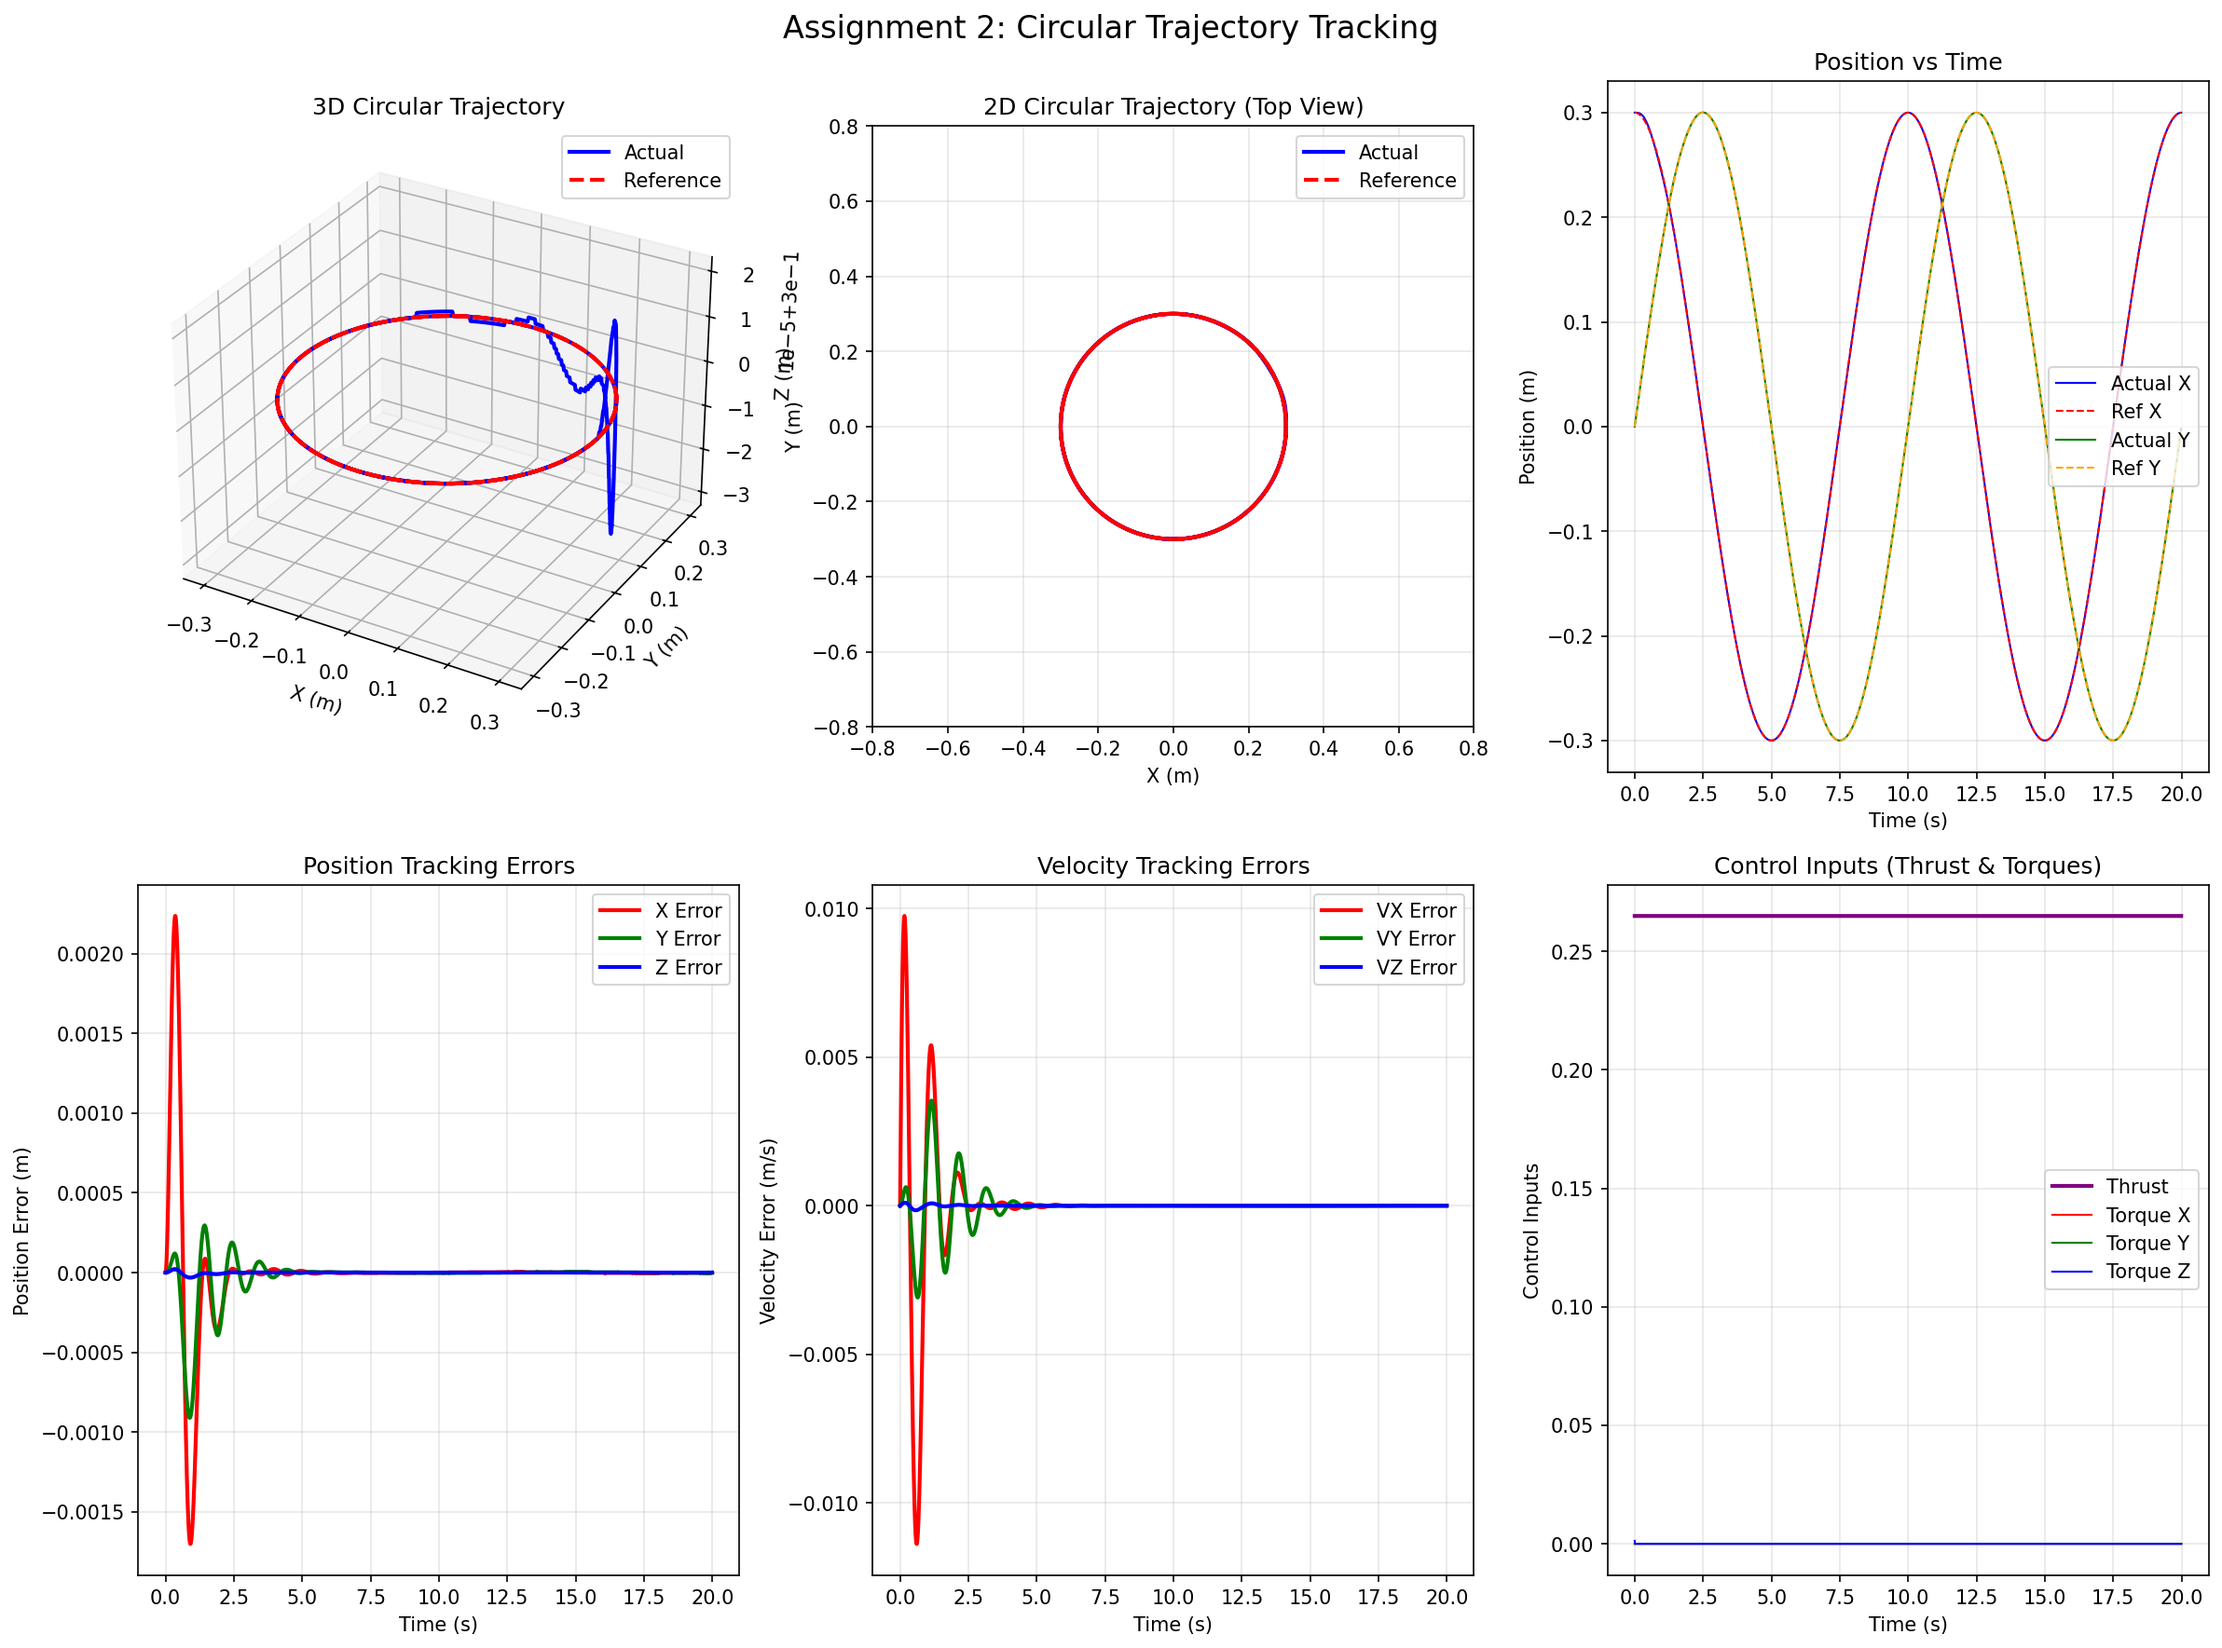
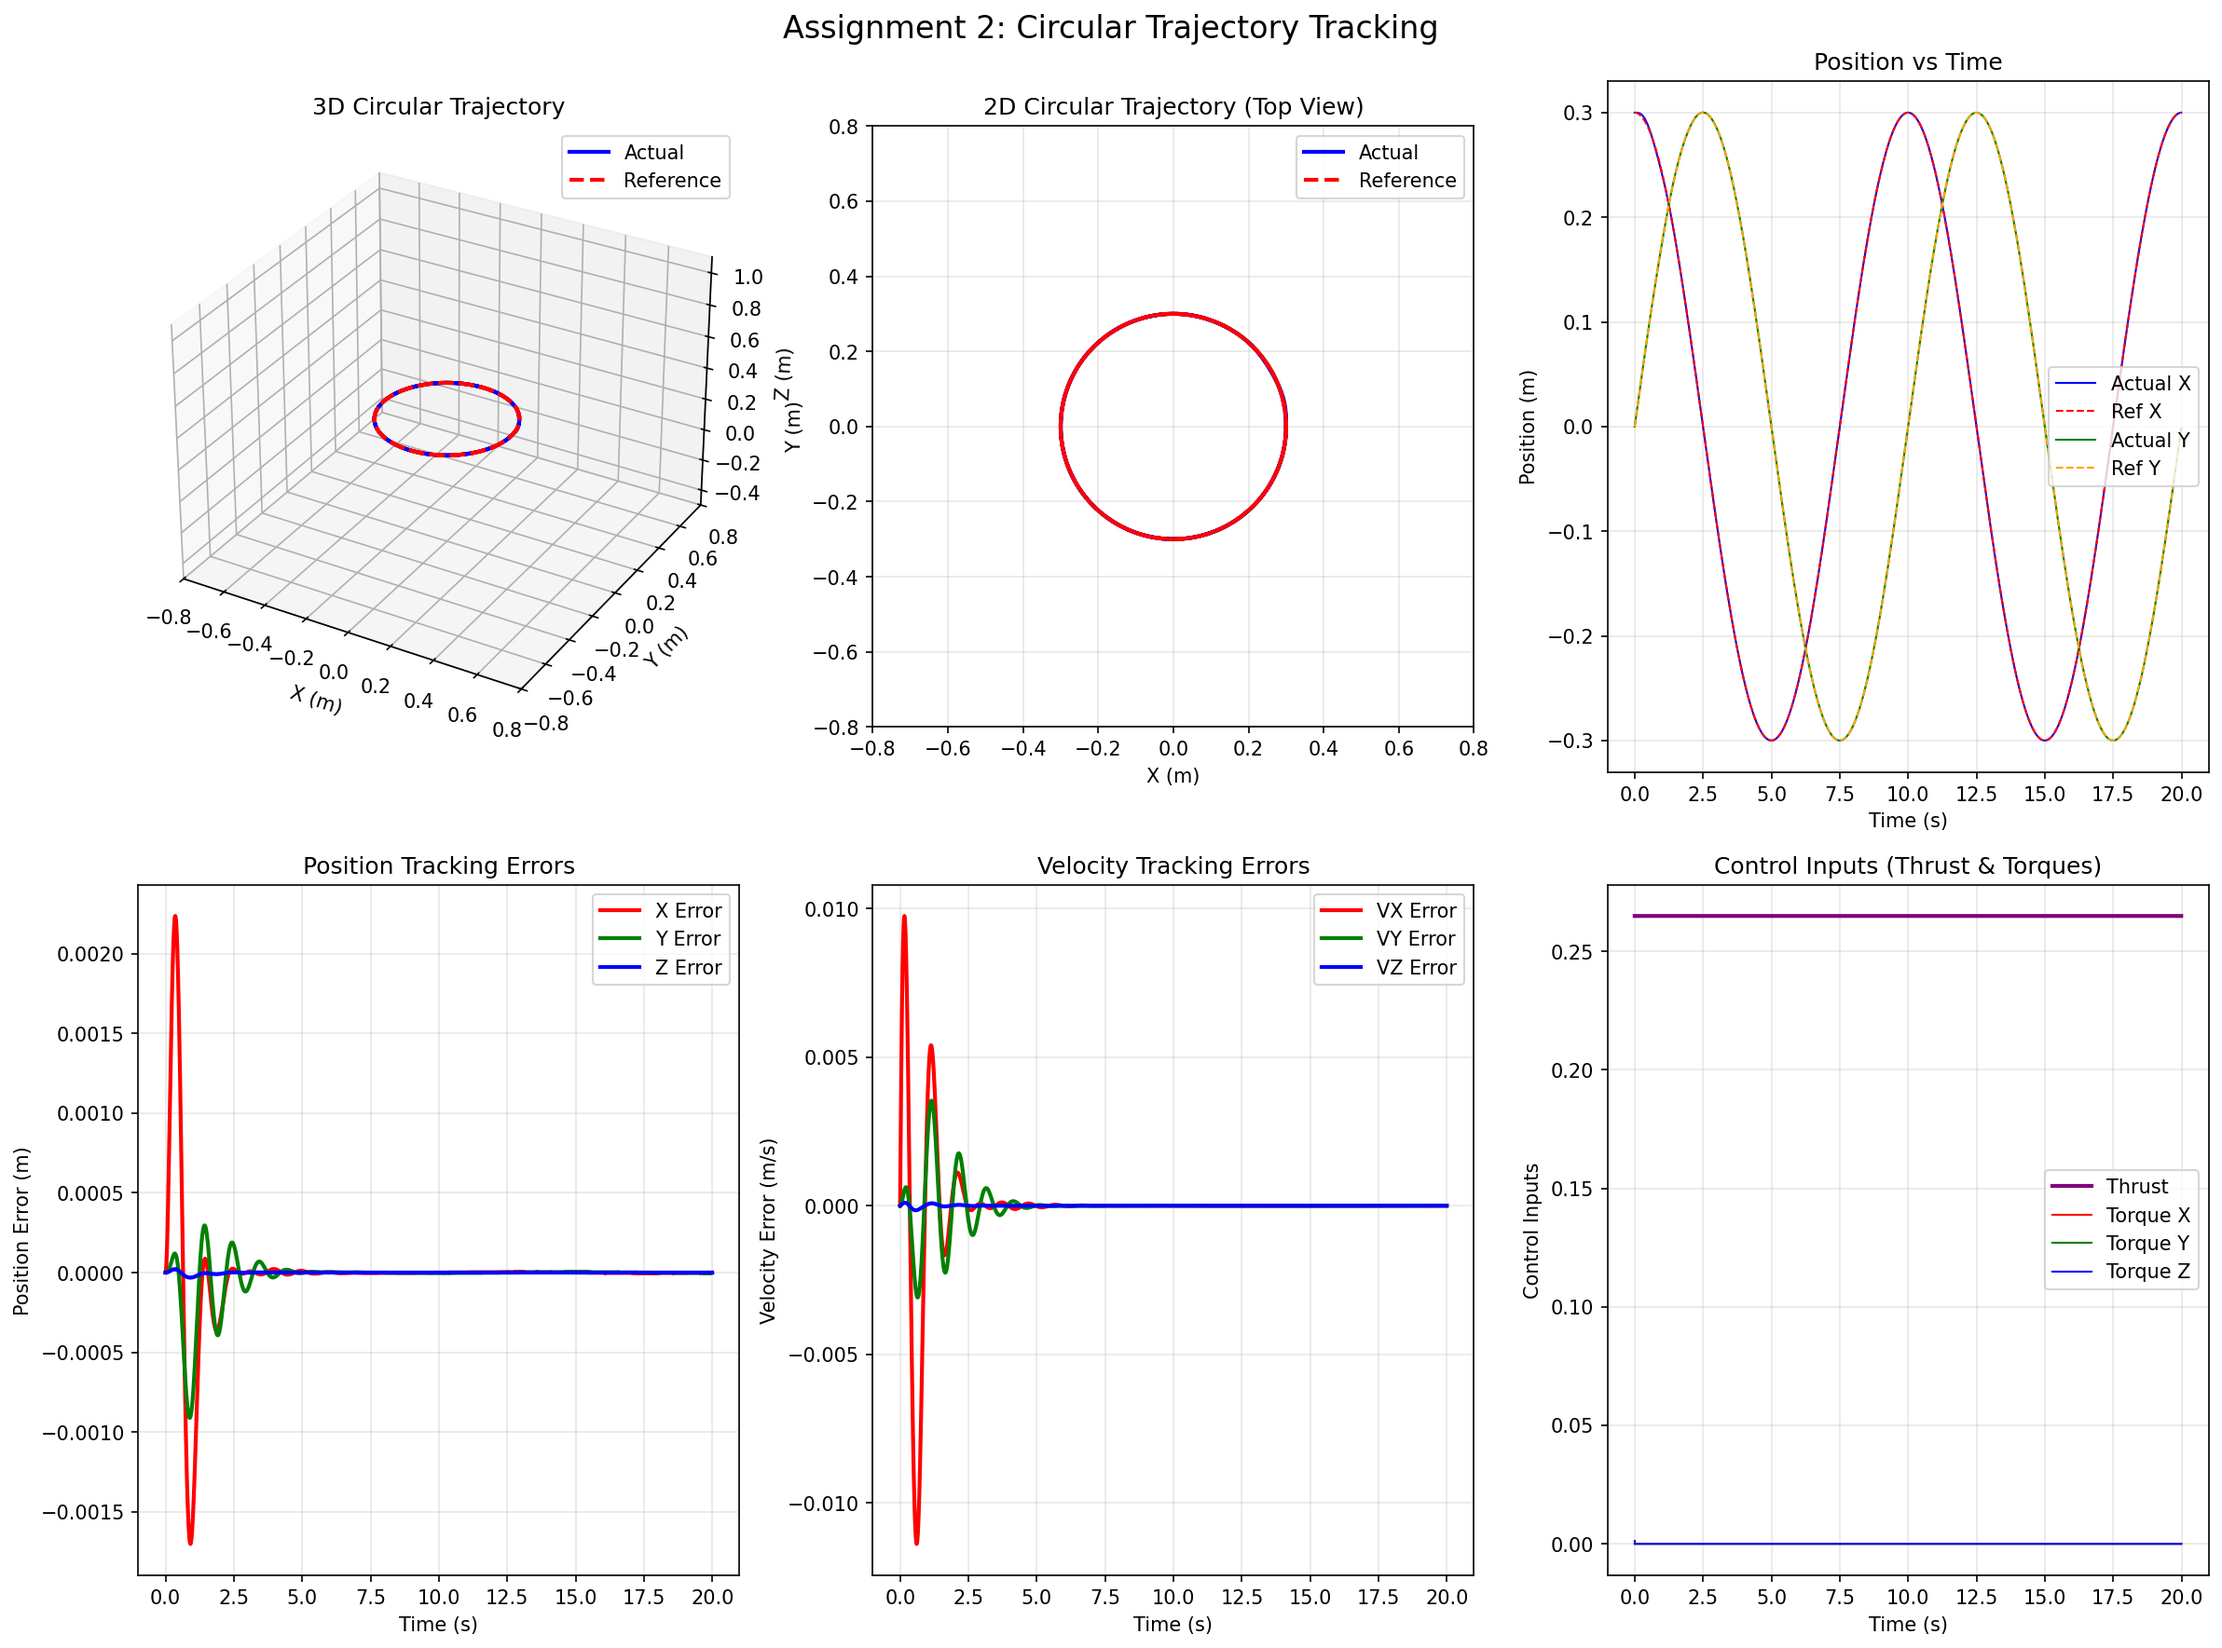
improve visulaizatoin.

Changed region(s): [[0.0621, 0.1244, 0.3414, 0.4353]]

diff --git a/multirotor_simulator/plot_assignment2.py b/multirotor_simulator/plot_assignment2.py
@@ -121,6 +121,14 @@ def plot_trajectory_tracking(scenario):
     y_act = df["y"].clip(y_ref_min, y_ref_max)
     z_act = df["z"].clip(z_ref_min, z_ref_max)
 
+    # For the 3D plot use equal-range limits on all three axes so that a
+    # small-but-real z variation is not artificially stretched relative to x/y.
+    # We base the cube side on the larger of the x/y span, centred on z_ref.
+    xy_span = max(x_ref_max - x_ref_min, y_ref_max - y_ref_min)
+    z_mid = df["z_ref"].mean()
+    z3d_min = z_mid - xy_span / 2
+    z3d_max = z_mid + xy_span / 2
+
     # 3D trajectory plot
     ax1 = fig.add_subplot(2, 3, 1, projection="3d")
     ax1.plot(x_act, y_act, z_act, label="Actual", color="blue", linewidth=2)
@@ -136,6 +144,9 @@ def plot_trajectory_tracking(scenario):
     ax1.set_xlabel("X (m)")
     ax1.set_ylabel("Y (m)")
     ax1.set_zlabel("Z (m)")
+    ax1.set_xlim(x_ref_min, x_ref_max)
+    ax1.set_ylim(y_ref_min, y_ref_max)
+    ax1.set_zlim(z3d_min, z3d_max)
     ax1.set_title(f"3D {scenario_title} Trajectory")
     ax1.legend()
 
